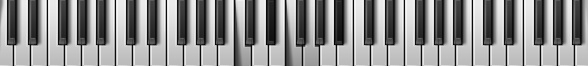
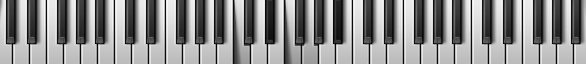
started thresholding

diff --git a/src/img_proc.py b/src/img_proc.py
@@ -5,11 +5,12 @@ class ImgProc:
 
     def convexHull(src_img_path, dest_img_path = 'img/ConvexHull.jpg'):
         # Load the image
-        img1 = cv2.imread(src_img_path)
+        img = cv2.imread(src_img_path)
         # Convert it to greyscale
-        img = cv2.cvtColor(img1, cv2.COLOR_BGR2GRAY)
+        grey = cv2.cvtColor(img, cv2.COLOR_BGR2GRAY)
+        blur = cv2.GaussianBlur(grey,(5,5),sigmaX=500,sigmaY=500)
         # Threshold the image
-        ret, thresh = cv2.threshold(img,190,255,cv2.THRESH_BINARY)
+        ret, thresh = cv2.threshold(blur,190,255,cv2.THRESH_BINARY)
         # Find the contours
         contours, hierarchy = cv2.findContours(thresh, cv2.RETR_TREE, cv2.CHAIN_APPROX_SIMPLE)
         # For each contour, find the convex hull and draw it
@@ -20,16 +21,24 @@ class ImgProc:
                 hull.append(contours[i][j])
         hull = np.array(hull)
         hull = cv2.convexHull(hull)
-    
+
         x,y,w,h = cv2.boundingRect(hull)
-        cv2.rectangle(img1,(x,y),(x+w,y+h),(0,255,0),2)
+        cv2.rectangle(img,(x,y),(x+w,y+h),(0,255,0),2)
         # Display the final convex hull image
-        cv2.imwrite(dest_img_path, img1)
+        cv2.imwrite(dest_img_path, img)
         return hull
 
-    def get_keyboard(src_img_path,hull, dest_img_path = 'img/cropped_keyboard.jpg'):
+    def crop_img(src_img_path,hull, dest_img_path = 'img/cropped_keyboard.jpg'):
         img = cv2.imread(src_img_path)
         x,y,w,h = cv2.boundingRect(hull)
         crop_img = img[y:y+h, x:x+w]
         cv2.imwrite(dest_img_path, crop_img)
         return crop_img
+    
+    def img_thresh(src_img_path,threshold = 127, dest_img_path = 'img/img_thresh.jpg'):
+        img = cv2.imread(src_img_path)
+        ret, thresh = cv2.threshold(img,threshold,255,cv2.THRESH_BINARY)
+        print(np.max(thresh),np.min(thresh))
+        thresh[np.all(thresh == (255,255,255),axis=-1)] = (255,0,0)
+        thresh[np.all(thresh == (0,0,0),axis=-1)] = (0,255,0)
+        cv2.imwrite(dest_img_path,thresh)

diff --git a/src/main.py b/src/main.py
@@ -2,7 +2,8 @@ from img_proc import ImgProc
 
 def main():
     hull = ImgProc.convexHull('img/pressedkeyboard.png')
-    ImgProc.get_keyboard('img/pressedkeyboard.png',hull)
+    ImgProc.crop_img('img/pressedkeyboard.png',hull)
+    ImgProc.img_thresh('img/cropped_keyboard.jpg')
 
 
 if __name__ == "__main__":
